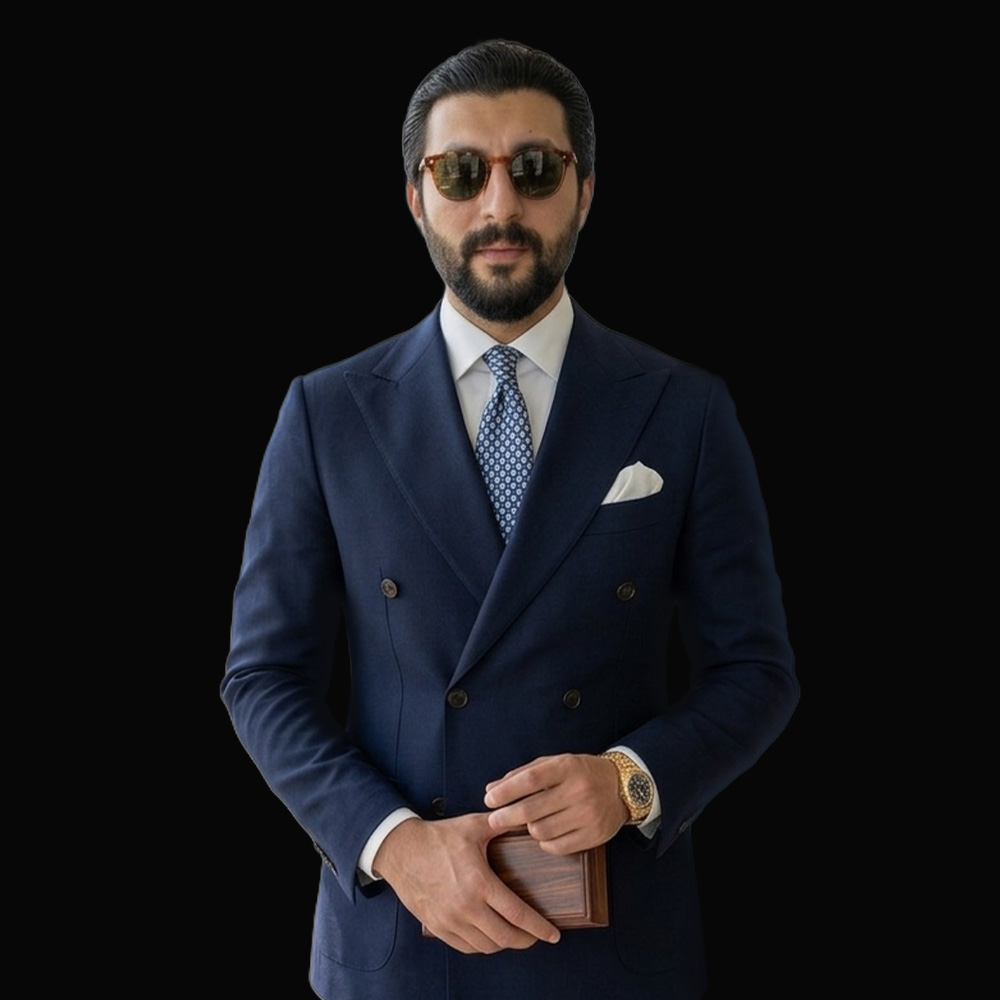
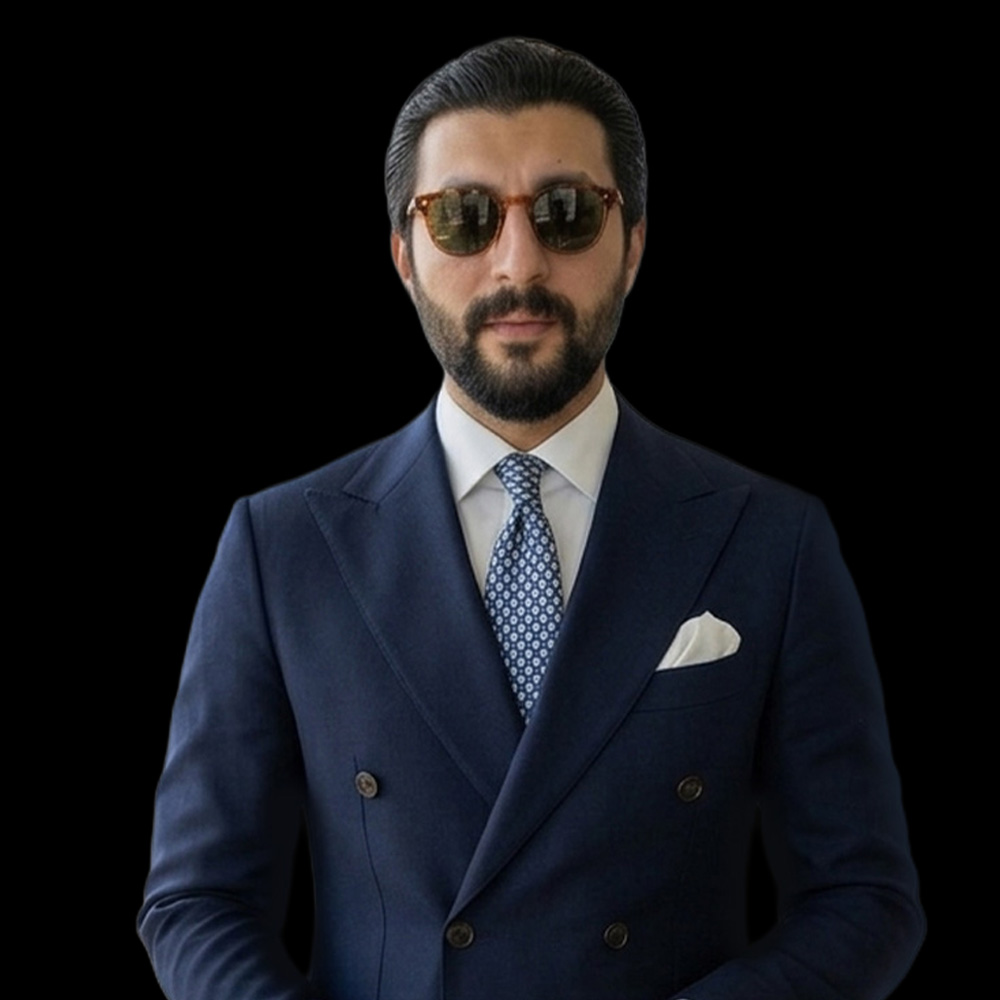
22 April change the talha sir pic and update what we do in about us page

diff --git a/components/about/WhatWeDo.tsx b/components/about/WhatWeDo.tsx
@@ -1,163 +1,249 @@
-'use client';
+"use client";
 
-import { useEffect, useRef, useState } from 'react';
-import Link from 'next/link';
+import { useEffect, useRef, useState } from "react";
+import Link from "next/link";
+import image from "next/image";
 
 const services = [
   {
+    // icon: "💻",
+    image: "/web.jpeg",
     title: "Web Development",
     slug: "web-development",
-    description: "Your one-stop shop for stellar web applications, built with the latest technologies. We create responsive, scalable, and high-performance web solutions that drive business growth."
+    description:
+      "Your one-stop shop for stellar web applications, built with the latest technologies.",
+    cta: "Discover Our Development Approach"
   },
   {
+    // icon: "📱",
+    image: "/mobile.jpeg",
     title: "Mobile App Development",
     slug: "mobile-app-development",
-    description: "Secure, scalable, and innovative mobile apps that deliver results. We develop native and cross-platform mobile applications for iOS and Android."
+    description:
+      "Secure, scalable, and innovative mobile apps that deliver results.",
+    cta: "Start Your Mobile App Journey"
   },
   {
+    // icon: "✅",
+    image: "/testing.jpeg",
     title: "Software Testing",
     slug: "software-testing",
-    description: "Speed up your software journey and mitigate risk with our full-cycle software testing service. We ensure quality, reliability, and performance of your software products."
+    description:
+      "Speed up your software journey and mitigate risk with our full-cycle software testing service.",
+    cta: "Ensure Quality"
   },
   {
+    // icon: "⚙",
+    image: "/custum.jpeg",
     title: "Custom Software Development",
     slug: "custom-software-development",
-    description: "From concept to execution - every line of code is designed to optimize your business processes and drive measurable ROI. Tailored solutions for your unique needs."
+    description:
+      "From concept to execution - every line of code is designed to optimize your business processes and drive measurable ROI.",
+    cta: "Explore Custom Solutions"
   },
   {
+    // icon: "🧠",
+      image: "/AI-Machine.jpeg",
     title: "AI & Machine Learning Development",
     slug: "ai-machine-learning-development",
-    description: "Your business — now intelligent. We build AI-powered solutions that automate processes, analyze data, and provide intelligent insights to drive decision-making."
+    description: "Your business — now intelligent.",
+    cta: "See AI in Action"
   },
   {
+    // icon: "✨",
+    image: "/UIUX-Designing.jpeg",
     title: "UI/UX Designing",
     slug: "ui-ux-designing",
-    description: "User-centered UI/UX design services that create intuitive and engaging user experiences. We design interfaces that users love and that drive conversions."
+    description: "User-centered UI/UX design services",
+    cta: "Explore Design Services"
   },
   {
-    title: "DevOps and Cloud",
+    // icon: "☁",
+    image: "/devops.jpeg",
+    title: "Devops and Cloud",
     slug: "devops-cloud-services",
-    description: "Cloud that delivers. DevOps that empowers. We help you deploy, scale, and maintain your applications with modern cloud infrastructure and DevOps practices."
+    description: "Cloud that delivers. DevOps that empowers.",
+    cta: "Optimize with DevOps"
   },
   {
-    title: "SaaS Development",
+    // icon: "🏢",
+    image: "/saas.jpeg",
+    title: "SAAS Development",
     slug: "saas-development",
-    description: "End-to-end innovative SaaS software development services that are scalable, secure, and user-centric. Build subscription-based software solutions that grow with your business."
+    description:
+      "End-to-end innovative SaaS software development services that are scalable, secure, and user-centric.",
+    cta: "Explore SAAS Solutions"
   },
   {
+    // icon: "🚀",
+    image: "/MVP.jpeg",
     title: "MVP Development",
     slug: "mvp-development",
-    description: "Validate ideas and launch quicker, smarter. We help you build Minimum Viable Products that test market demand and gather user feedback before full-scale development."
+    description: "Validate ideas and launch quicker, smarter.",
+    cta: "Start Your MVP"
   },
   {
+    // icon: "🎨",
+    image: "/graphic.jpeg",
     title: "Graphic Designing",
     slug: "graphic-designing",
-    description: "Transform your digital user experience through our intuitive and visually appealing designing services. Create compelling visual identities and marketing materials."
+    description:
+      "Transform your digital user experience through our intuitive and visually appealing designing services.",
+    cta: "See Our Designs"
   },
+
   {
+    // icon: "💼",
+      image: "/IT.jpeg",
     title: "IT Consultation",
     slug: "it-consultation",
-    description: "Consulting that works — even when you're offline. Get expert advice on technology strategy, architecture, and digital transformation to achieve your business goals."
+    description: "Consulting that works — even when you’re offline.",
+    cta: "Get Consultation"
   },
   {
+    // icon: "📲",
+    image: "/enter.jpeg",
     title: "Enterprise Mobility Solutions",
     slug: "enterprise-mobility-solutions",
-    description: "Mobility that accelerates efficiency. We develop enterprise-grade mobile solutions that streamline operations, improve productivity, and enhance employee engagement."
+    description: "Mobility that accelerates efficiency.",
+    cta: "Discover Mobility Solutions"
   },
   {
-    title: "Blockchain Development",
+    // icon: "⛓",
+    image: "block-chain.jpeg",
+    title: "Blockchain",
     slug: "blockchain-development",
-    description: "Trust, transparency, and transactions—redefined. We build blockchain solutions including smart contracts, decentralized applications, and cryptocurrency platforms."
+    description: "Trust, transparency, and transactions—redefined.",
+    cta: "Explore Blockchain"
   }
 ];
 
-export default function WhatWeDo() {
-  const [isVisible, setIsVisible] = useState(false);
-  const ref = useRef<HTMLDivElement>(null);
+export default function Services() {
+  const [visibleCards, setVisibleCards] = useState<Set<number>>(new Set());
+  const [showAll, setShowAll] = useState(false);
+  const cardRefs = useRef<(HTMLDivElement | null)[]>([]);
+
+  const displayedServices = showAll ? services : services.slice(0, 6);
 
   useEffect(() => {
-    const observer = new IntersectionObserver(
-      ([entry]) => {
-        if (entry.isIntersecting) {
-          setIsVisible(true);
-        }
-      },
-      { threshold: 0.1 }
-    );
+    const observers: IntersectionObserver[] = [];
 
-    if (ref.current) {
-      observer.observe(ref.current);
-    }
+    cardRefs.current.forEach((card, index) => {
+      if (!card) return;
+
+      const observer = new IntersectionObserver(
+        (entries) => {
+          entries.forEach((entry) => {
+            if (entry.isIntersecting) {
+              setVisibleCards((prev) => new Set([...prev, index]));
+            }
+          });
+        },
+        {
+          threshold: 0.1,
+          rootMargin: "0px 0px -50px 0px"
+        }
+      );
+
+      observer.observe(card);
+      observers.push(observer);
+    });
 
     return () => {
-      if (ref.current) {
-        observer.unobserve(ref.current);
-      }
+      observers.forEach((observer) => observer.disconnect());
     };
-  }, []);
+  }, [showAll]);
 
   return (
-    <section className="py-20 bg-black relative">
-      <div className="container mx-auto px-4 sm:px-6 lg:px-8 max-w-6xl">
-        <div
-          ref={ref}
-          className={`transition-all duration-1000 ${
-            isVisible ? 'opacity-100 translate-y-0' : 'opacity-0 translate-y-8'
-          }`}
-        >
-          <h2 className="text-3xl md:text-4xl font-bold text-center mb-4">
-            What We{' '}
-            <span className="bg-gradient-to-r from-red-500 via-red-400 to-red-500 bg-clip-text text-transparent">
-              Do
-            </span>
-          </h2>
-          <p className="text-center text-gray-400 mb-12 text-base md:text-lg max-w-3xl mx-auto">
-            As a software company, we provide comprehensive services to help businesses transform their digital presence and achieve their goals.
-          </p>
+    <section id="services" className="py-20 pt-[90px] bg-black relative">
+      <div className="relative container mx-auto px-4 sm:px-6 lg:px-8">
+        <h2 className="text-4xl md:text-5xl font-bold text-center mb-16">
+          What We{" "}
+          <span className="bg-gradient-to-r from-red-500 via-red-400 to-red-500 bg-clip-text text-transparent">
+            Do
+          </span>{" "}
+        </h2>
+        <div className="grid grid-cols-1 md:grid-cols-2 lg:grid-cols-3 gap-6">
+          {displayedServices.map((service, index) => (
+            <div
+              key={index}
+              ref={(el: any) => (cardRefs.current[index] = el)}
+              className={`group relative overflow-hidden bg-black border border-red-500/40 rounded-xl p-6 hover:border-red-500/70 transition-all duration-500 hover:-translate-y-1 flex flex-col h-full ${
+                visibleCards.has(index)
+                  ? "opacity-100 translate-y-0"
+                  : "opacity-0 translate-y-8"
+              }`}
+              style={{
+                backgroundImage: `url(${service.image})`,
+                backgroundSize: "cover",
+                backgroundPosition: "center",
+                transition: "opacity 0.6s ease-out, transform 0.6s ease-out",
+                transitionDelay: `${index * 0.1}s`,
+                boxShadow:
+                  "0 2px 8px rgba(220, 38, 38, 0.08), inset 0 1px 0 rgba(255, 255, 255, 0.03)",
+                minHeight: "150px",
+                height: "300px"
+              }}
+            >
+                <div className="absolute inset-0 bg-black/50 rounded-xl"></div>
 
-          <div className="grid grid-cols-1 md:grid-cols-2 lg:grid-cols-3 gap-6">
-            {services.map((service, index) => (
-              <div
-                key={index}
-                className={`bg-black/60 backdrop-blur-xl border border-red-500/30 rounded-xl p-6 hover:border-red-500/70 transition-all duration-500 hover:-translate-y-1 ${
-                  isVisible ? 'opacity-100 translate-y-0' : 'opacity-0 translate-y-8'
-                }`}
-                style={{
-                  transitionDelay: `${index * 0.05}s`,
-                  boxShadow: '0 2px 8px rgba(220, 38, 38, 0.08), inset 0 1px 0 rgba(255, 255, 255, 0.03)'
-                }}
+              <div className="relative z-10">
+              <h3 className="text-lg font-bold text-white mb-3 leading-tight">
+                {service.title}
+              </h3>
+              <p className="text-gray-200 mb-5 leading-relaxed text-sm flex-grow">
+                {service.description}
+              </p>
+              <Link
+                href={`/services/${service.slug}`}
+                className="inline-flex items-center space-x-2 text-red-400 hover:text-red-300 transition-colors duration-300 text-xs font-medium mt-auto"
               >
-                <h3 className="text-lg font-bold text-white mb-3 leading-tight">
-                  {service.title}
-                </h3>
-                <p className="text-gray-400 mb-4 leading-relaxed text-sm">
-                  {service.description}
-                </p>
-                <Link
-                  href={`/services/${service.slug}`}
-                  className="inline-flex items-center space-x-2 text-red-400 hover:text-red-300 transition-colors duration-300 text-xs font-medium"
+                <span>{service.cta}</span>
+                <svg
+                  className="w-3.5 h-3.5"
+                  fill="none"
+                  stroke="currentColor"
+                  viewBox="0 0 24 24"
                 >
-                  <span>Learn More</span>
-                  <svg
-                    className="w-3.5 h-3.5"
-                    fill="none"
-                    stroke="currentColor"
-                    viewBox="0 0 24 24"
-                  >
-                    <path
-                      strokeLinecap="round"
-                      strokeLinejoin="round"
-                      strokeWidth={2}
-                      d="M9 5l7 7-7 7"
-                    />
-                  </svg>
-                </Link>
+                  <path
+                    strokeLinecap="round"
+                    strokeLinejoin="round"
+                    strokeWidth={2}
+                    d="M9 5l7 7-7 7"
+                  />
+                </svg>
+              </Link>
               </div>
-            ))}
-          </div>
+            </div>
+          ))}
         </div>
+        {services.length > 6 && (
+          <div className="flex justify-center mt-12">
+            {!showAll ? (
+              <button
+                onClick={() => setShowAll(true)}
+                className="px-8 py-3 bg-transparent border border-red-500/60 text-red-400 rounded-lg font-medium hover:bg-red-500/10 hover:border-red-500 transition-all duration-300"
+              >
+                Show more
+              </button>
+            ) : (
+              <button
+                onClick={() => {
+                  setShowAll(false);
+                  // Scroll to top of services section when collapsing
+                  window.scrollTo({
+                    top: document.getElementById('services')?.offsetTop || 0,
+                    behavior: 'smooth'
+                  });
+                }}
+                className="px-8 py-3 bg-transparent border border-red-500/60 text-red-400 rounded-lg font-medium hover:bg-red-500/10 hover:border-red-500 transition-all duration-300"
+              >
+                Show less
+              </button>
+            )}
+          </div>
+        )}
       </div>
     </section>
   );
 }
-
